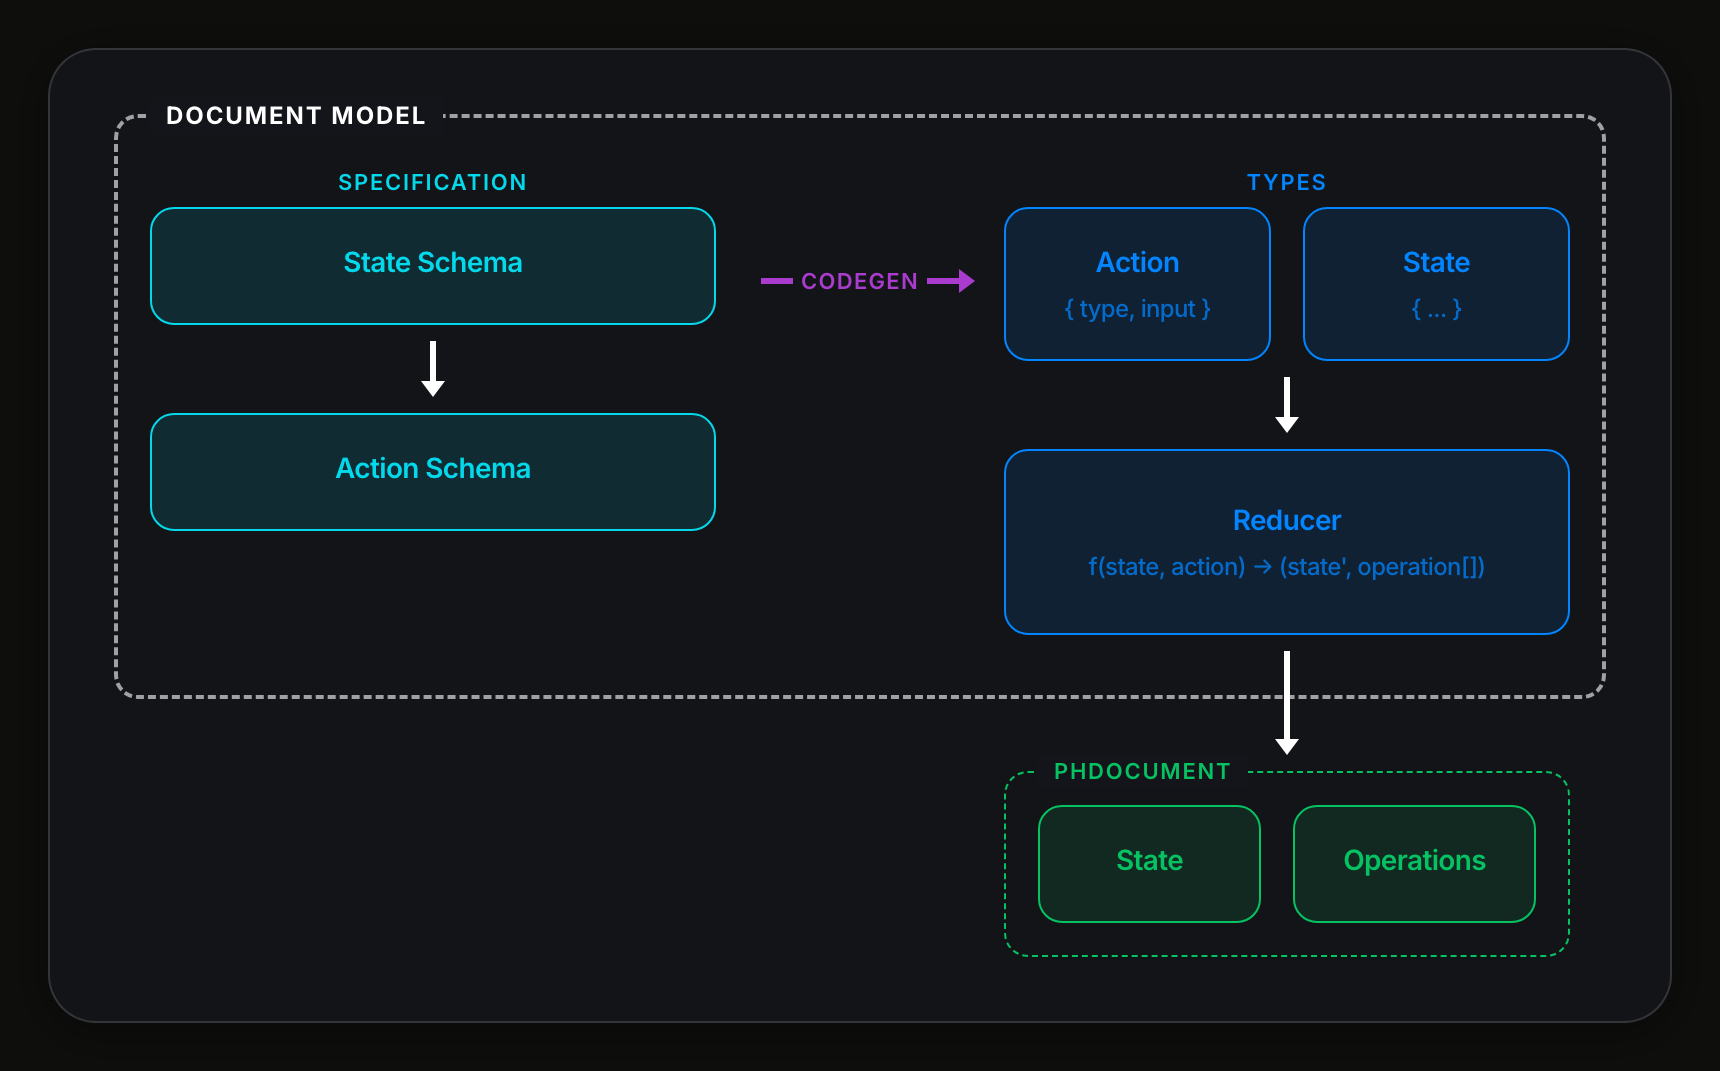
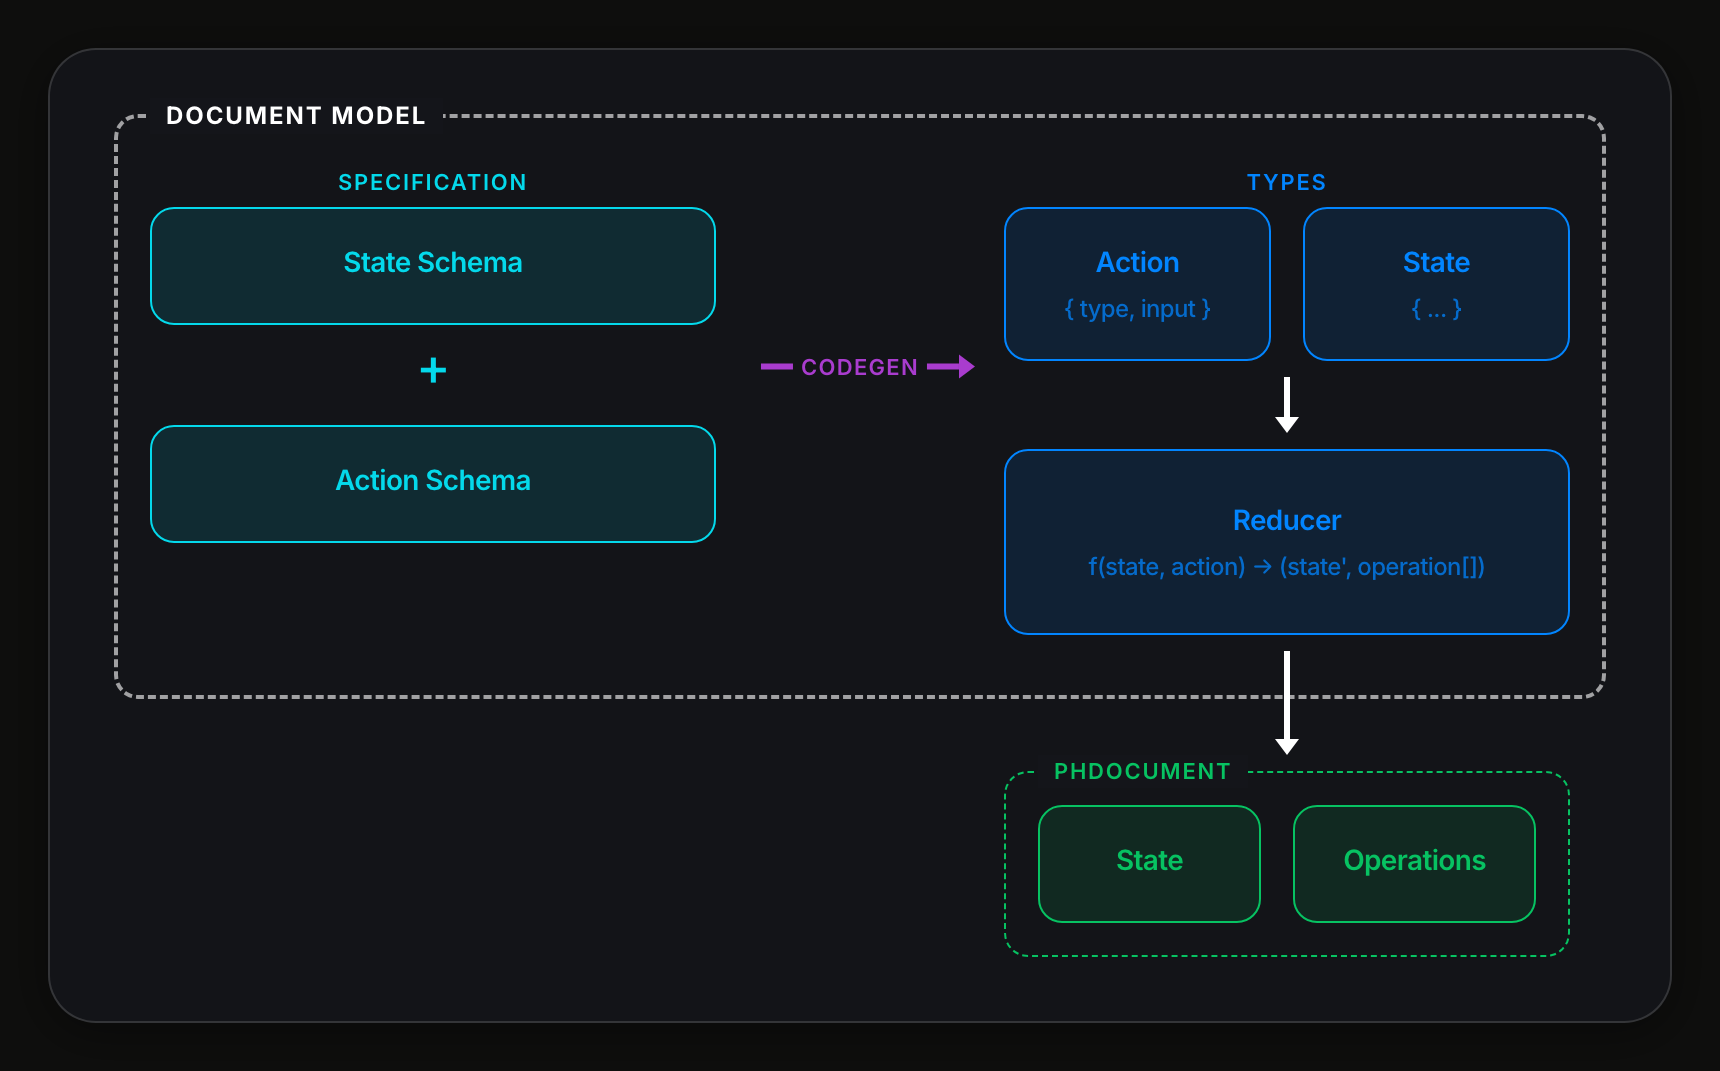
rebuild: the Document Model spec column becomes a sum

diff --git a/diagrams/pages/document-model-architecture.html b/diagrams/pages/document-model-architecture.html
@@ -52,14 +52,25 @@
       gap: 0;
     }
 
-    /* Center bridge column */
+    /* Center bridge column — the arrow is placed on the plus's centre line by the
+       script at the bottom of the page. */
     .col-bridge {
-      display: flex;
-      flex-direction: column;
-      align-items: center;
-      justify-content: flex-start;
-      gap: var(--space-md);
-      padding-top: 29px;
+      position: relative;
+    }
+    .col-bridge .h-arrow {
+      position: absolute;
+      left: 50%;
+      transform: translate(-50%, -50%);
+    }
+
+    /* The spec is a state schema AND an action schema, not one leading to the other */
+    .spec-plus {
+      font-size: 26px;
+      font-weight: var(--font-weight-medium);
+      line-height: 1;
+      color: var(--accent-cyan);
+      text-align: center;
+      margin: var(--space-sm) 0 var(--space-md);
     }
 
     /* Box component used in columns */
@@ -259,7 +270,7 @@
               <div class="box-title">State Schema</div>
               <div class="box-detail"></div>
             </div>
-            <div class="v-connector"></div>
+            <div class="spec-plus" id="specPlus">+</div>
             <div class="box accent-cyan">
               <div class="box-title">Action Schema</div>
               <div class="box-detail">
@@ -270,7 +281,7 @@
 
           <!-- Center Bridge -->
           <div class="col-bridge">
-            <div class="h-arrow">
+            <div class="h-arrow" id="codegenArrow">
               <div class="h-arrow-line"></div>
               <div class="h-arrow-label">Codegen</div>
               <div class="h-arrow-line has-head"></div>
@@ -323,5 +334,19 @@
       </div>
     </div>
   </div>
+  <script>
+    // The codegen arrow leaves from the middle of the spec's "+".
+    function placeCodegenArrow() {
+      var plus = document.getElementById('specPlus');
+      var arrow = document.getElementById('codegenArrow');
+      var bridge = arrow.parentElement;
+      var p = plus.getBoundingClientRect();
+      var b = bridge.getBoundingClientRect();
+      arrow.style.top = (p.top + p.height / 2 - b.top) + 'px';
+    }
+
+    placeCodegenArrow();
+    window.addEventListener('resize', placeCodegenArrow);
+  </script>
 </body>
 </html>
